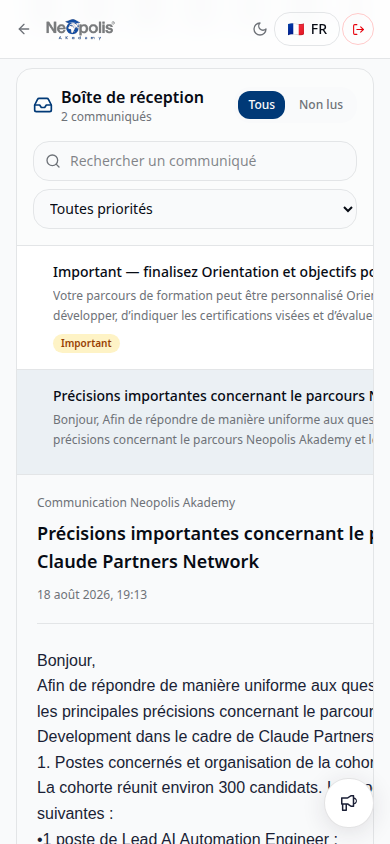
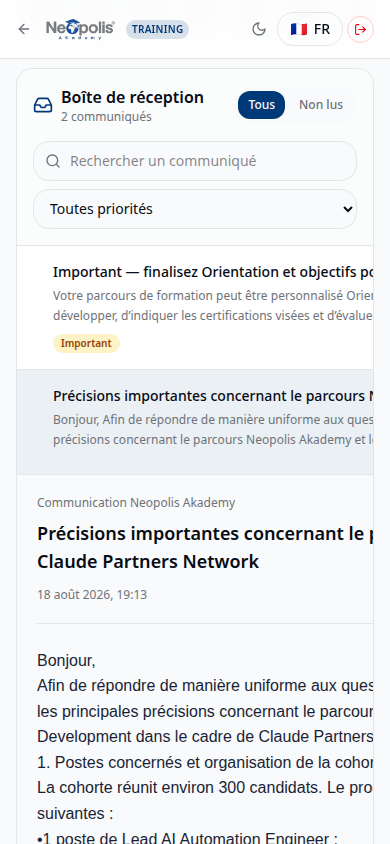
Checkpoint: Fiabilisation de la boîte de réception : la sélection d’un message non lu applique désormais un état lu optimiste, attend la mutation de lecture, rafraîchit la liste et restaure l’état précédent si la mutation échoue. La sonde QA vérifie maintenant qu’un clic utilisateur seul fait passer

diff --git a/client/src/pages/TrainingDashboard.tsx b/client/src/pages/TrainingDashboard.tsx
@@ -110,7 +110,7 @@ export default function TrainingDashboard() {
   const gamificationQuery = trpc.competencies.getGamification.useQuery(undefined, { enabled: isAuthenticated });
   const [communicationInboxFilters, setCommunicationInboxFilters] = useState({ page: 1, pageSize: 20, search: "", readState: "all" as "all" | "unread" | "read", importance: "all" as "all" | "important" });
   const learnerCommunicationsQuery = trpc.training.getCommunications.useQuery(communicationInboxFilters, { enabled: isAuthenticated });
-  const markCommunicationReadMutation = trpc.training.markCommunicationRead.useMutation({ onSuccess: () => learnerCommunicationsQuery.refetch() });
+  const markCommunicationReadMutation = trpc.training.markCommunicationRead.useMutation();
   const orientationQuery = trpc.orientation.getMine.useQuery(undefined, { enabled: isAuthenticated });
   const saveOrientationGoalsMutation = trpc.orientation.saveGoals.useMutation({ onSuccess: () => orientationQuery.refetch() });
   const completeOrientationMutation = trpc.orientation.completeDiagnostic.useMutation({ onSuccess: () => orientationQuery.refetch() });
@@ -512,7 +512,10 @@ export default function TrainingDashboard() {
                 totalPages={learnerCommunicationsQuery.data?.totalPages || 1}
                 filters={communicationInboxFilters}
                 onFiltersChange={setCommunicationInboxFilters}
-                onRead={(communicationId) => markCommunicationReadMutation.mutate({ communicationId })}
+                onRead={async (communicationId) => {
+                  await markCommunicationReadMutation.mutateAsync({ communicationId });
+                  await learnerCommunicationsQuery.refetch();
+                }}
               />
             </motion.div>
           )}
@@ -750,9 +753,10 @@ function communicationsPreview(body: string) {
   return body.replace(/<[^>]*>/g, " ").replace(/\s+/g, " ").trim();
 }
 
-function CommunicationsTab({ items, isLoading, page, total, totalPages, filters, onFiltersChange, onRead }: { items: CommunicationItem[]; isLoading: boolean; page: number; total: number; totalPages: number; filters: CommunicationFilters; onFiltersChange: (filters: CommunicationFilters) => void; onRead: (communicationId: number) => void }) {
+function CommunicationsTab({ items, isLoading, page, total, totalPages, filters, onFiltersChange, onRead }: { items: CommunicationItem[]; isLoading: boolean; page: number; total: number; totalPages: number; filters: CommunicationFilters; onFiltersChange: (filters: CommunicationFilters) => void; onRead: (communicationId: number) => Promise<void> }) {
   const [selectedId, setSelectedId] = useState<number | null>(null);
   const [searchInput, setSearchInput] = useState(filters.search);
+  const [optimisticReadIds, setOptimisticReadIds] = useState<Set<number>>(() => new Set());
   const searchTimer = useRef<ReturnType<typeof setTimeout> | null>(null);
   useEffect(() => {
     if (!items.length) { setSelectedId(null); return; }
@@ -762,9 +766,20 @@ function CommunicationsTab({ items, isLoading, page, total, totalPages, filters,
   useEffect(() => () => { if (searchTimer.current) clearTimeout(searchTimer.current); }, []);
 
   const selected = items.find((item) => item.id === selectedId) || null;
-  const openMessage = (item: CommunicationItem) => {
+  const isRead = (item: CommunicationItem) => item.isRead || optimisticReadIds.has(item.id);
+  const openMessage = async (item: CommunicationItem) => {
     setSelectedId(item.id);
-    if (!item.isRead) onRead(item.id);
+    if (isRead(item)) return;
+    setOptimisticReadIds((current) => new Set(current).add(item.id));
+    try {
+      await onRead(item.id);
+    } catch {
+      setOptimisticReadIds((current) => {
+        const next = new Set(current);
+        next.delete(item.id);
+        return next;
+      });
+    }
   };
   const updateFilters = (update: Partial<CommunicationFilters>) => onFiltersChange({ ...filters, ...update, page: update.page ?? (Object.keys(update).some((key) => key !== "page") ? 1 : filters.page) });
   const updateSearch = (value: string) => {
@@ -780,7 +795,7 @@ function CommunicationsTab({ items, isLoading, page, total, totalPages, filters,
       <div className="mt-4 flex flex-col gap-2 sm:flex-row"><label className="relative flex-1"><Search className="pointer-events-none absolute left-3 top-1/2 h-4 w-4 -translate-y-1/2 text-muted-foreground" /><input value={searchInput} onChange={(event) => updateSearch(event.target.value)} placeholder="Rechercher un communiqué" className="h-10 w-full rounded-lg border border-input bg-background pl-9 pr-3 text-sm text-foreground outline-none ring-offset-background focus-visible:ring-2 focus-visible:ring-ring" /></label><select value={filters.importance} onChange={(event) => updateFilters({ importance: event.target.value as CommunicationFilters["importance"] })} className="h-10 rounded-lg border border-input bg-background px-3 text-sm text-foreground"><option value="all">Toutes priorités</option><option value="important">Importants</option></select></div>
     </header>
     {!items.length ? <div className="p-10 text-center"><MailOpen className="mx-auto h-8 w-8 text-muted-foreground" /><p className="mt-3 font-medium">Aucun communiqué dans cette vue.</p><p className="mt-1 text-sm text-muted-foreground">Modifiez votre recherche ou vos filtres pour retrouver un message.</p></div> : <div className="grid min-h-[480px] lg:grid-cols-[minmax(300px,0.85fr)_minmax(0,1.6fr)]">
-      <div className="border-b border-border lg:border-b-0 lg:border-r" role="listbox" aria-label="Liste des communiqués">{items.map((item) => <button key={item.id} type="button" role="option" aria-selected={selected?.id === item.id} onClick={() => openMessage(item)} className={`block w-full border-b border-border px-4 py-4 text-left last:border-b-0 focus-visible:outline-none focus-visible:ring-2 focus-visible:ring-inset focus-visible:ring-ring ${selected?.id === item.id ? "bg-primary/8" : "hover:bg-muted/45"}`}><div className="flex items-start gap-3"><span className={`mt-1.5 h-2 w-2 shrink-0 rounded-full ${item.isRead ? "bg-transparent" : "bg-primary"}`} aria-label={item.isRead ? "Lu" : "Non lu"} /><div className="min-w-0 flex-1"><div className="flex items-start justify-between gap-3"><span className={`truncate text-sm ${item.isRead ? "font-medium" : "font-semibold"} text-foreground`}>{item.subject}</span><time className="shrink-0 text-[11px] text-muted-foreground">{new Date(item.sentAt || item.createdAt).toLocaleDateString("fr-FR", { day: "2-digit", month: "short" })}</time></div><p className="mt-1 line-clamp-2 text-xs leading-5 text-muted-foreground">{communicationsPreview(item.body)}</p><div className="mt-2 flex items-center gap-2">{item.isImportant === 1 && <span className="rounded-full bg-amber-100 px-2 py-0.5 text-[10px] font-semibold text-amber-800 dark:bg-amber-900/35 dark:text-amber-300">Important</span>}{!item.isRead && <span className="text-[10px] font-medium text-primary">Nouveau</span>}</div></div></div></button>)}</div>
+      <div className="border-b border-border lg:border-b-0 lg:border-r" role="listbox" aria-label="Liste des communiqués">{items.map((item) => { const itemIsRead = isRead(item); return <button key={item.id} type="button" role="option" aria-selected={selected?.id === item.id} onClick={() => { void openMessage(item); }} className={`block w-full border-b border-border px-4 py-4 text-left last:border-b-0 focus-visible:outline-none focus-visible:ring-2 focus-visible:ring-inset focus-visible:ring-ring ${selected?.id === item.id ? "bg-primary/8" : "hover:bg-muted/45"}`}><div className="flex items-start gap-3"><span className={`mt-1.5 h-2 w-2 shrink-0 rounded-full ${itemIsRead ? "bg-transparent" : "bg-primary"}`} aria-label={itemIsRead ? "Lu" : "Non lu"} /><div className="min-w-0 flex-1"><div className="flex items-start justify-between gap-3"><span className={`truncate text-sm ${itemIsRead ? "font-medium" : "font-semibold"} text-foreground`}>{item.subject}</span><time className="shrink-0 text-[11px] text-muted-foreground">{new Date(item.sentAt || item.createdAt).toLocaleDateString("fr-FR", { day: "2-digit", month: "short" })}</time></div><p className="mt-1 line-clamp-2 text-xs leading-5 text-muted-foreground">{communicationsPreview(item.body)}</p><div className="mt-2 flex items-center gap-2">{item.isImportant === 1 && <span className="rounded-full bg-amber-100 px-2 py-0.5 text-[10px] font-semibold text-amber-800 dark:bg-amber-900/35 dark:text-amber-300">Important</span>}{!itemIsRead && <span className="text-[10px] font-medium text-primary">Nouveau</span>}</div></div></div></button>; })}</div>
       <article className="min-w-0 bg-background px-5 py-5 sm:px-7 sm:py-6" aria-live="polite">{selected && <><header className="border-b border-border pb-5"><div className="flex flex-wrap items-start justify-between gap-3"><div className="min-w-0"><div className="mb-2 flex flex-wrap items-center gap-2">{selected.isImportant === 1 && <span className="rounded-full bg-amber-100 px-2 py-0.5 text-xs font-semibold text-amber-800 dark:bg-amber-900/35 dark:text-amber-300">Important</span>}<span className="text-xs text-muted-foreground">Communication Neopolis Akademy</span></div><h3 className="text-lg font-semibold text-foreground sm:text-xl">{selected.subject}</h3></div><time className="text-xs text-muted-foreground">{new Date(selected.sentAt || selected.createdAt).toLocaleString("fr-FR", { dateStyle: "medium", timeStyle: "short" })}</time></div></header><div className="prose prose-sm mt-6 max-w-none break-words text-foreground dark:prose-invert" dangerouslySetInnerHTML={{ __html: selected.body }} />{selected.isImportant === 1 && <footer className="mt-8 border-t border-border pt-4 text-sm">{selected.isAcknowledged ? <span className="inline-flex items-center gap-2 font-medium text-emerald-700 dark:text-emerald-300"><MailOpen className="h-4 w-4" />Réception confirmée</span> : <span className="inline-flex items-center gap-2 font-medium text-amber-700 dark:text-amber-300"><Mail className="h-4 w-4" />Accusé de réception requis dans la fenêtre importante.</span>}</footer>}</>}</article>
     </div>}
     {totalPages > 1 && <footer className="flex flex-wrap items-center justify-between gap-3 border-t border-border bg-muted/20 px-4 py-3 text-sm"><span className="text-muted-foreground">Page {page} sur {totalPages}</span><div className="flex gap-2"><Button variant="outline" size="sm" disabled={page <= 1} onClick={() => updateFilters({ page: page - 1 })}><ChevronLeft className="mr-1 h-4 w-4" />Précédent</Button><Button variant="outline" size="sm" disabled={page >= totalPages} onClick={() => updateFilters({ page: page + 1 })}>Suivant<ChevronRight className="ml-1 h-4 w-4" /></Button></div></footer>}

diff --git a/todo.md b/todo.md
@@ -3,7 +3,8 @@
 ## Audit comparatif avancé — DataCamp et Neopolis
 - [x] Auditer l’affichage actuel des communiqués apprenants, les données de lecture et les règles d’accusé de réception obligatoire — la page rendait tous les corps HTML à la suite ; les reçus et accusés importants serveur ont été identifiés comme invariants
 - [x] Reconcevoir les communiqués en boîte de réception compacte avec recherche, filtres, liste de messages et volet de lecture responsive — pagination côté serveur, recherche débouncée, filtre non lus/priorité, aperçus bornés, liste sélectionnable et volet de lecture ajoutés
-- [ ] Republier puis vérifier la boîte de réception après le correctif mobile de l’en-tête — recherche « orientation » validée (2 à 1 communiqué), lecture persistante confirmée par l’API, état important non accusé couvert par test, sonde mobile locale sans débordement et QA 6/6 réussie
+- [x] Republier puis vérifier la boîte de réception après le correctif mobile de l’en-tête — recherche « orientation » validée (2 à 1 communiqué), lecture persistante confirmée par l’API, état important non accusé couvert par test, sonde mobile publique 390 × 844 sans débordement et QA 6/6 réussie
+- [ ] Vérifier que la sélection d’un communiqué non lu déclenche réellement la mutation de lecture depuis l’interface, actualise la liste et met à jour le compteur sans appel manuel
 - [x] Auditer l’accueil et les données de session disponibles afin d’identifier les actions utiles aux visiteurs et aux utilisateurs authentifiés — navigation, session différée et widget de reprise existant analysés
 - [x] Adapter l’accueil avec un message, des indicateurs et des appels à l’action distincts pour un apprenant connecté, sans modifier le parcours visiteur — salutation individualisée, accès aux formations/tableau de bord et bouton « Mon espace » ajoutés ; les CTA visiteurs restent inchangés
 - [x] Tester les deux états d’authentification sur desktop et mobile, puis publier le correctif de personnalisation — accueil public rejoué connecté et après déconnexion ; héros authentifié avec progression 83 %, reprise, tableau de bord et Mon espace, puis CTA visiteurs restaurés ; prévisualisation mobile 390 × 844 sans débordement, QA 6/6 et checkpoint `e1cd4715` publiés

diff --git a/docs/communications-inbox-qa.md b/docs/communications-inbox-qa.md
@@ -25,6 +25,6 @@ La structure utilise un panneau unique empilé sous le point de rupture `lg`, av
 
 ## Contrôle de production
 
-Après propagation du checkpoint, l’onglet [Communiqués](https://akademy.neodev.click/training?tab=communications) a été rejoué avec le compte apprenant de démonstration. Le domaine public rend la boîte de réception en deux panneaux, avec deux aperçus courts dans la liste et un seul communiqué complet dans le volet de lecture. La recherche et les filtres restent présents ; les messages importants conservent leur état de réception confirmée.
+Après propagation du checkpoint, l’onglet [Communiqués](https://akademy.neodev.click/training?tab=communications) a été rejoué avec le compte apprenant de démonstration. Le domaine public rend la boîte de réception en deux panneaux, avec deux aperçus courts dans la liste et un seul communiqué complet dans le volet de lecture. La recherche et les filtres restent présents ; les messages importants conservent leur état de réception confirmée. La sonde publiée finale à 390 × 844 confirme les contrôles et la sélection, avec `scrollWidth = 390`, `clientWidth = 390` et `overflow = false`.
 
 Le communiqué non lu du compte de démonstration a été ouvert depuis la ligne de liste. La mutation de lecture a répondu `200` avec `success: true`, puis la réponse de la boîte de réception a confirmé l’état lu persistant. Les règles d’accusé des messages importants n’ont pas été modifiées.
